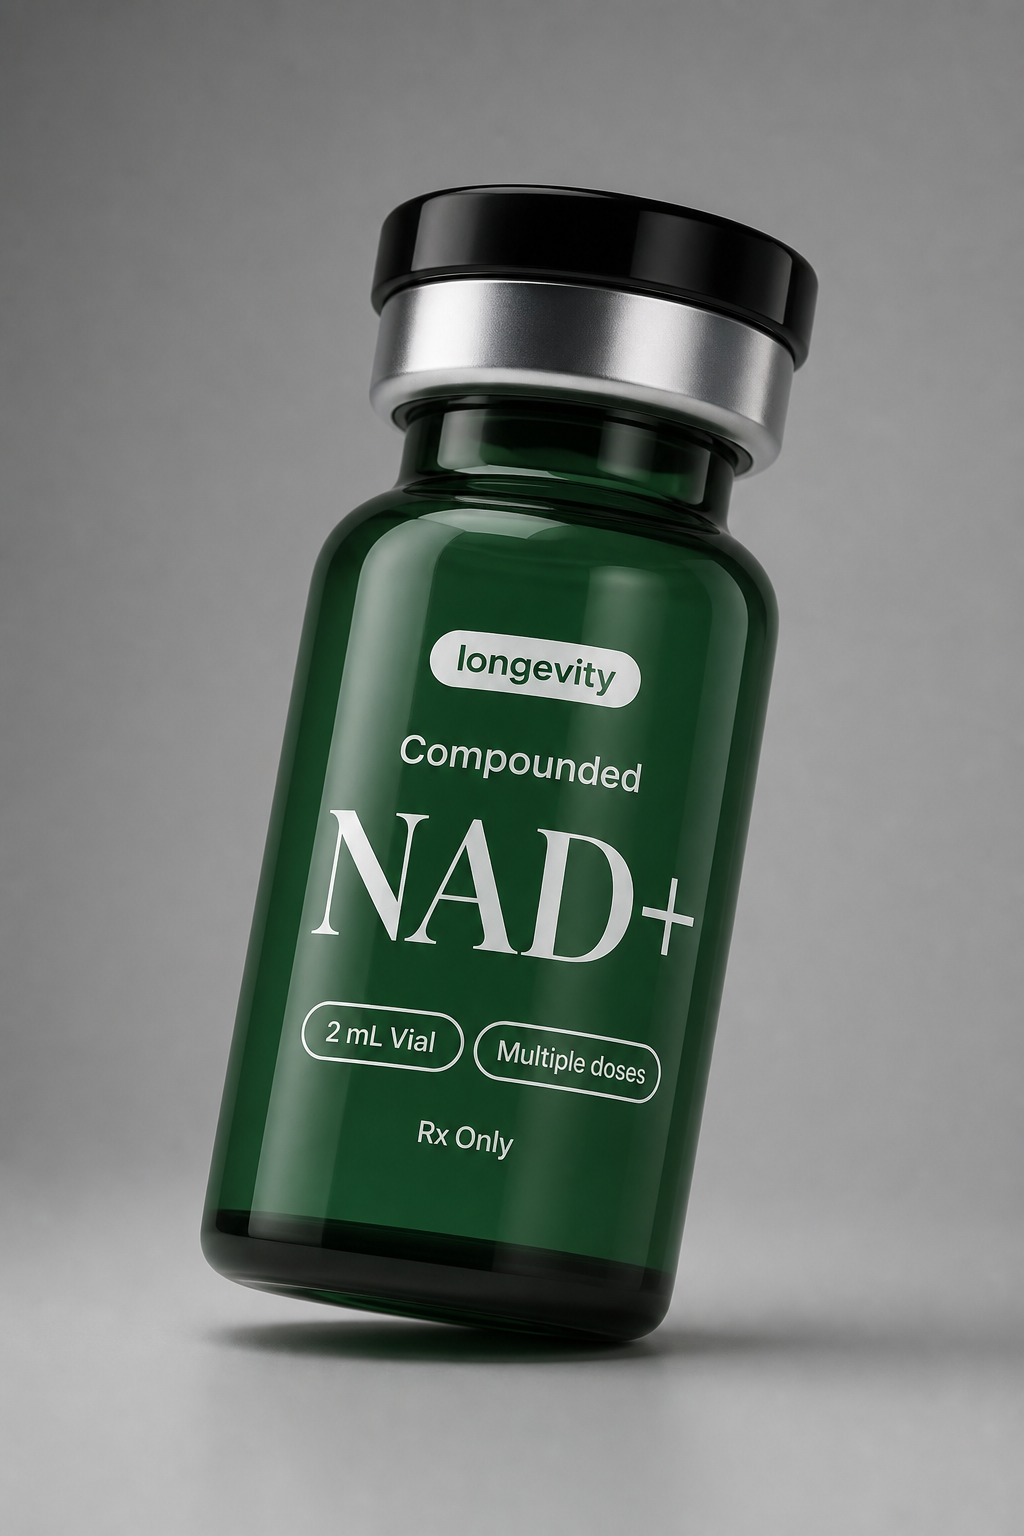
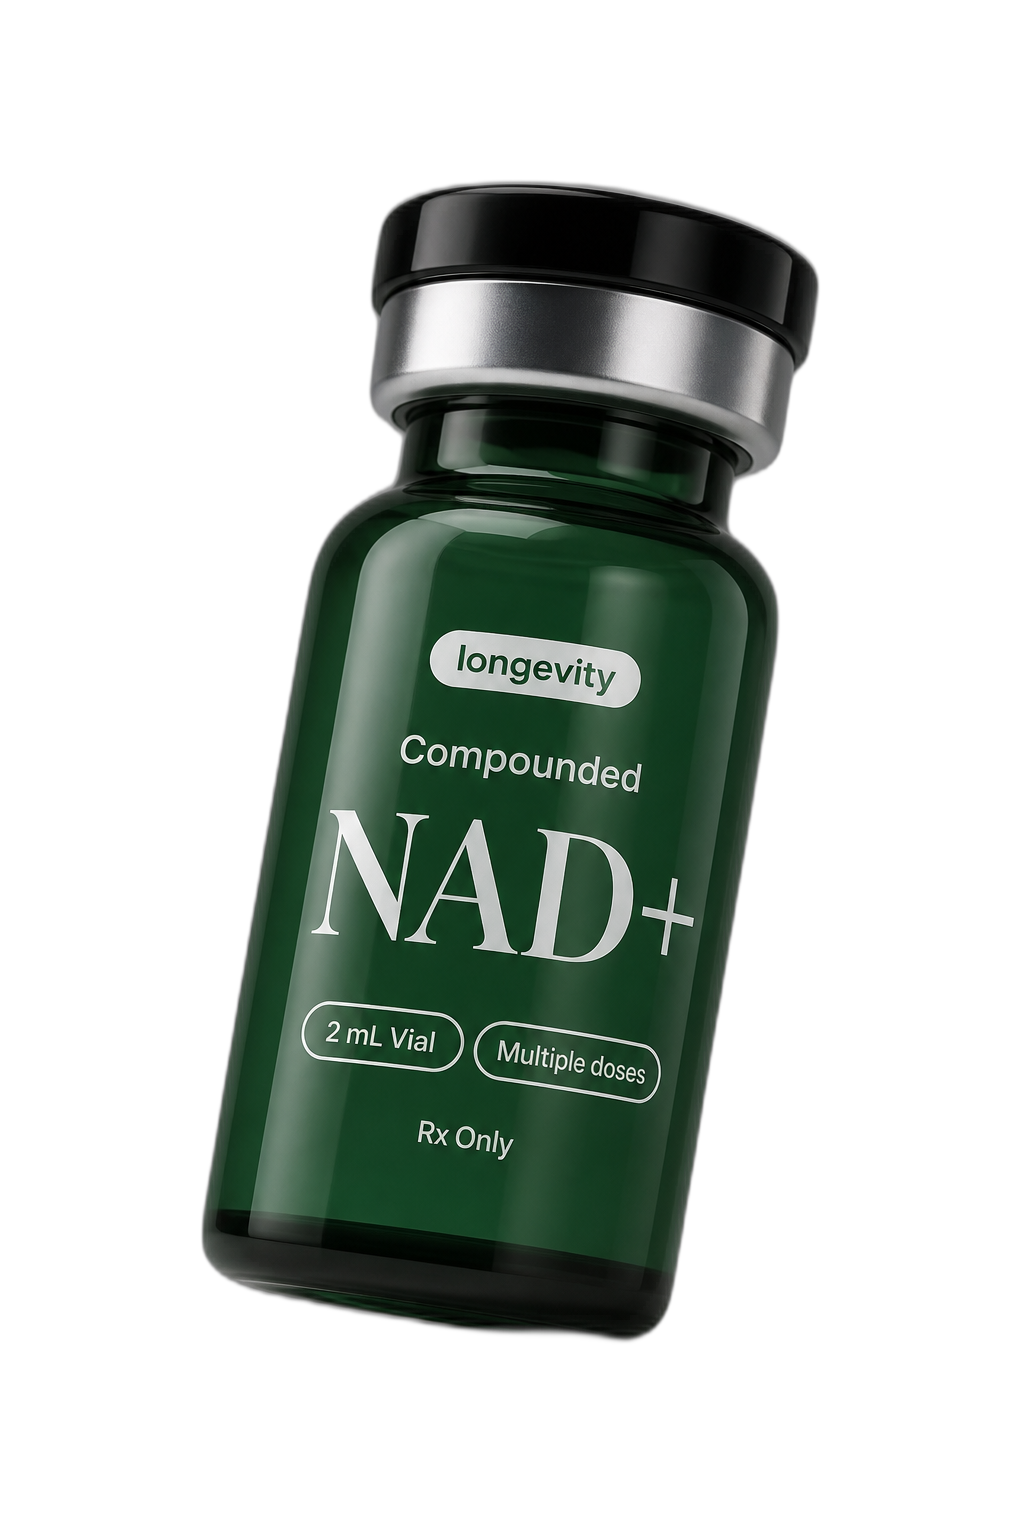
Remove vial image backgrounds (transparent PNGs) and switch CSS to object-fit:contain

diff --git a/longevity.html b/longevity.html
@@ -460,21 +460,21 @@
             <div class="peptide-carousel-container" style="position:relative; width:100%; height:260px; background:radial-gradient(circle at center, rgba(80,140,222,0.1) 0%, transparent 70%); border-radius:12px; margin-bottom:24px; overflow:hidden; touch-action:pan-y;">
                 <div class="peptide-slides" style="display:flex; width:300%; height:100%; transition: transform 0.4s cubic-bezier(0.4, 0, 0.2, 1);" id="pepSlider">
                     <div class="pep-slide" style="flex:1; display:flex; flex-direction:column; align-items:center; justify-content:center;">
-                        <img src="assets/brand/sermorelin_vial.png" style="height: 200px; width: 140px; object-fit:cover; object-position: center 55%; border-radius: 10px;" alt="Sermorelin">
+                        <img src="assets/brand/sermorelin_vial.png" style="height: 200px; width: 140px; object-fit: contain; border-radius: 10px;" alt="Sermorelin">
                         <div style="text-align:center; transform:translateY(12px);">
                             <div style="color:#fff; font-weight:700; font-size:18px;">Sermorelin</div>
                             <div style="color:rgba(255,255,255,0.6); font-size:13px; font-weight:500;">Growth factors &middot; Anti-aging</div>
                         </div>
                     </div>
                     <div class="pep-slide" style="flex:1; display:flex; flex-direction:column; align-items:center; justify-content:center;">
-                        <img src="assets/brand/glutathione_vial.png" style="height: 200px; width: 140px; object-fit:cover; object-position: center 55%; border-radius: 10px;" alt="Glutathione">
+                        <img src="assets/brand/glutathione_vial.png" style="height: 200px; width: 140px; object-fit: contain; border-radius: 10px;" alt="Glutathione">
                         <div style="text-align:center; transform:translateY(12px);">
                             <div style="color:#fff; font-weight:700; font-size:18px;">Glutathione</div>
                             <div style="color:rgba(255,255,255,0.6); font-size:13px; font-weight:500;">Detox &middot; Immunity</div>
                         </div>
                     </div>
                     <div class="pep-slide" style="flex:1; display:flex; flex-direction:column; align-items:center; justify-content:center;">
-                        <img src="assets/brand/nad_vial.png" style="height: 200px; width: 140px; object-fit:cover; object-position: center 55%; border-radius: 10px;" alt="NAD+">
+                        <img src="assets/brand/nad_vial.png" style="height: 200px; width: 140px; object-fit: contain; border-radius: 10px;" alt="NAD+">
                         <div style="text-align:center; transform:translateY(12px);">
                             <div style="color:#fff; font-weight:700; font-size:18px;">NAD+</div>
                             <div style="color:rgba(255,255,255,0.6); font-size:13px; font-weight:500;">Cellular energy &middot; DNA repair</div>

diff --git a/promo-longevity.html b/promo-longevity.html
@@ -344,21 +344,21 @@
         <div class="peptide-carousel-container" style="position:relative; width:100%; height:100%; overflow:hidden; touch-action:pan-y;">
             <div class="peptide-slides" style="display:flex; width:300%; height:100%; transition: transform 0.4s cubic-bezier(0.4, 0, 0.2, 1);" id="PromoPepSlider">
                 <div class="pep-slide" style="flex:1; display:flex; flex-direction:column; align-items:center; justify-content:center;">
-                    <img src="assets/brand/sermorelin_vial.png" style="height: 55%; width: 45%; object-fit:cover; object-position: center 55%; border-radius: 10px;" alt="Sermorelin">
+                    <img src="assets/brand/sermorelin_vial.png" style="height: 55%; width: 45%; object-fit: contain; border-radius: 10px;" alt="Sermorelin">
                     <div style="text-align:center; margin-top:24px;">
                         <div style="color:var(--charcoal); font-weight:700; font-size:22px;">Sermorelin</div>
                         <div style="color:var(--text-muted); font-size:14px; font-weight:500;">Growth factors &middot; Anti-aging</div>
                     </div>
                 </div>
                 <div class="pep-slide" style="flex:1; display:flex; flex-direction:column; align-items:center; justify-content:center;">
-                    <img src="assets/brand/glutathione_vial.png" style="height: 55%; width: 45%; object-fit:cover; object-position: center 55%; border-radius: 10px;" alt="Glutathione">
+                    <img src="assets/brand/glutathione_vial.png" style="height: 55%; width: 45%; object-fit: contain; border-radius: 10px;" alt="Glutathione">
                     <div style="text-align:center; margin-top:24px;">
                         <div style="color:var(--charcoal); font-weight:700; font-size:22px;">Glutathione</div>
                         <div style="color:var(--text-muted); font-size:14px; font-weight:500;">Detox &middot; Immunity</div>
                     </div>
                 </div>
                 <div class="pep-slide" style="flex:1; display:flex; flex-direction:column; align-items:center; justify-content:center;">
-                    <img src="assets/brand/nad_vial.png" style="height: 55%; width: 45%; object-fit:cover; object-position: center 55%; border-radius: 10px;" alt="NAD+">
+                    <img src="assets/brand/nad_vial.png" style="height: 55%; width: 45%; object-fit: contain; border-radius: 10px;" alt="NAD+">
                     <div style="text-align:center; margin-top:24px;">
                         <div style="color:var(--charcoal); font-weight:700; font-size:22px;">NAD+</div>
                         <div style="color:var(--text-muted); font-size:14px; font-weight:500;">Cellular energy &middot; DNA repair</div>

diff --git a/weight-loss.html b/weight-loss.html
@@ -787,8 +787,8 @@
             <div class="hpc-badge">✦ Most Popular</div>
             <div class="vial-carousel" id="wlCarousel">
               <div class="vial-carousel-track">
-                <img src="assets/brand/semag_transparent.png" alt="Semaglutide" class="vial-slide active" style="width:100%;height:100%;object-fit:cover;object-position:center 55%;">
-                <img src="assets/brand/tirzz_transparent.png" alt="Tirzepatide" class="vial-slide" style="width:100%;height:100%;object-fit:cover;object-position:center 55%;">
+                <img src="assets/brand/semag_transparent.png" alt="Semaglutide" class="vial-slide active" style="width:100%;height:100%;object-fit:contain;">
+                <img src="assets/brand/tirzz_transparent.png" alt="Tirzepatide" class="vial-slide" style="width:100%;height:100%;object-fit:contain;">
               </div>
               <button class="vial-arrow vial-arrow-left" onclick="switchVial('wlCarousel', -1)" aria-label="Previous">
                 <svg width="18" height="18" viewBox="0 0 18 18" fill="none"><path d="M11 4l-5 5 5 5" stroke="currentColor" stroke-width="1.5" stroke-linecap="round" stroke-linejoin="round"/></svg>
@@ -849,7 +849,7 @@
       <div class="meds-grid">
         <div class="med-card reveal reveal-delay-1">
           <img src="assets/brand/semag_transparent.png" alt="Semaglutide"
-            style="width: 100%; height: 280px; object-fit: cover; object-position: center 55%; margin-bottom: 24px; border-radius: 12px;">
+            style="width: 100%; height: 280px; object-fit: contain; margin-bottom: 24px; border-radius: 12px;">
           <h3>Semaglutide</h3>
           <div class="generic">Compounded GLP-1 receptor agonist</div>
           <div class="mechanism">A GLP-1 receptor agonist that reduces appetite, slows gastric emptying, and improves
@@ -872,7 +872,7 @@
         <div class="med-card featured reveal reveal-delay-2">
           <div class="med-card-tag">More Powerful</div>
           <img src="assets/brand/tirzz_transparent.png" alt="Tirzepatide"
-            style="width: 100%; height: 280px; object-fit: cover; object-position: center 55%; margin-bottom: 24px; border-radius: 12px;">
+            style="width: 100%; height: 280px; object-fit: contain; margin-bottom: 24px; border-radius: 12px;">
           <h3>Tirzepatide</h3>
           <div class="generic">Compounded dual GLP-1/GIP receptor agonist</div>
           <div class="mechanism">A dual GLP-1/GIP receptor agonist — the two-pronged mechanism delivers greater weight

diff --git a/quiz.html b/quiz.html
@@ -1667,7 +1667,7 @@
           <div class="plan-card" id="plan-wl">
             <div class="plan-recommended-tag">Best Match</div>
             <span class="plan-icon"><i class="ri-scales-3-fill"></i></span>
-            <img src="assets/brand/semag_transparent.png" alt="Semaglutide" style="position: absolute; bottom: 100px; right: 15px; height: 220px; width: 130px; object-fit: cover; object-position: center 55%; z-index: 1; border-radius: 10px;">
+            <img src="assets/brand/semag_transparent.png" alt="Semaglutide" style="position: absolute; bottom: 100px; right: 15px; height: 220px; width: 130px; object-fit: contain; z-index: 1; border-radius: 10px;">
             <div class="plan-name">GLP-1 Weight Loss</div>
             <div class="plan-desc">Semaglutide compounded with B12. Ideal for metabolic support and sustained weight loss.</div>
             <div class="plan-price">$194.29<span style="font-size:18px;color:var(--text-muted)">/mo</span></div>
@@ -1699,7 +1699,7 @@
           <div class="plan-card" id="plan-long">
             <div class="plan-recommended-tag">Best Match</div>
             <span class="plan-icon"><i class="ri-node-tree"></i></span>
-            <img src="assets/brand/sermorelin_vial.png" alt="Longevity Protocol" style="position: absolute; bottom: 85px; right: 15px; height: 190px; width: 115px; object-fit: cover; object-position: center 55%; border-radius: 10px; z-index: 1;">
+            <img src="assets/brand/sermorelin_vial.png" alt="Longevity Protocol" style="position: absolute; bottom: 85px; right: 15px; height: 190px; width: 115px; object-fit: contain; border-radius: 10px; z-index: 1;">
             <div class="plan-name">Longevity Stack</div>
             <div class="plan-desc">Sermorelin + NAD+. Targeted for energy, recovery, and anti-aging at the cellular level.</div>
             <div class="plan-price">$149<span style="font-size:18px;color:var(--text-muted)">/mo</span></div>

diff --git a/pricing.html b/pricing.html
@@ -678,7 +678,7 @@
       <div class="container">
         <div class="pricing-grid">
           <div class="pricing-card reveal reveal-delay-1">
-            <img src="assets/brand/semag_transparent.png" alt="GLP-1 Weight Loss" style="height: 220px; width: 100%; object-fit: cover; object-position: center 55%; margin-bottom: 24px; border-radius: 12px;">
+            <img src="assets/brand/semag_transparent.png" alt="GLP-1 Weight Loss" style="height: 220px; width: 100%; object-fit: contain; margin-bottom: 24px; border-radius: 12px;">
             <div class="pc-name">GLP-1 Weight Loss</div>
             <div class="pc-desc">Semaglutide or tirzepatide. All dosages included. No upcharge for higher doses.</div>
             <div class="pc-price"><sup>$</sup><span class="price-val" data-monthly="194.29" data-quarterly="149.29">194.29</span>
@@ -736,7 +736,7 @@
             <a href="quiz.html" class="pc-cta">Get Started →</a>
           </div>
           <div class="pricing-card reveal reveal-delay-4">
-            <img src="assets/brand/sermorelin_vial.png" alt="Longevity Stack" style="height: 220px; width: 100%; object-fit: cover; object-position: center 55%; margin-bottom: 24px; border-radius: 12px;">
+            <img src="assets/brand/sermorelin_vial.png" alt="Longevity Stack" style="height: 220px; width: 100%; object-fit: contain; margin-bottom: 24px; border-radius: 12px;">
             <div class="pc-name">Longevity Stack</div>
             <div class="pc-desc">Peptides, NAD+, and anti-aging protocols. Custom-designed by your physician.</div>
             <div class="pc-price"><sup>$</sup><span class="price-val" data-monthly="149" data-quarterly="127">149</span>

diff --git a/index.html b/index.html
@@ -483,8 +483,7 @@
     .treatment-card-visual.vial-photo img.product-photo {
       height: 100%;
       width: 100%;
-      object-fit: cover;
-      object-position: center 55%;
+      object-fit: contain;
       filter: none;
     }
 
@@ -1135,7 +1134,7 @@
       
       <!-- Mobile Hero Image -->
       <div class="hero-visual-mobile" style="border-radius: 20px; overflow: hidden; box-shadow: 0 20px 40px rgba(0,0,0,0.3);">
-        <img src="assets/brand/freeley-hero-lifestyle.png" alt="Confident woman living healthy with Freeley" style="width: 100%; height: auto; display: block; object-fit: cover; max-height: 400px;">
+        <img src="assets/brand/freeley-hero-lifestyle.png" alt="Confident woman living healthy with Freeley" style="width: 100%; height: auto; display: block;  max-height: 400px;">
       </div>
       <p class="hero-desc" style="margin-bottom: 24px;">Freeley pairs you with a licensed provider who treats the root cause &mdash; hormones, metabolism, and all &mdash; so the weight actually stays off.<br><br>Lose the weight. Ditch the guesswork. <em>Live Freeley.</em></p>
 
@@ -1193,7 +1192,7 @@
     </div>
     <div class="hero-visual">
       <!-- Hero Lifestyle Photo -->
-      <img src="assets/brand/freeley-hero-lifestyle.png" alt="Confident woman living healthy with Freeley" style="width: 100%; height: 100%; object-fit: cover; display: block;">
+      <img src="assets/brand/freeley-hero-lifestyle.png" alt="Confident woman living healthy with Freeley" style="width: 100%; height: 100%;  display: block;">
     </div>
   </section>
 

diff --git a/promo-weight-loss.html b/promo-weight-loss.html
@@ -351,7 +351,7 @@
       <!-- SEMAGLUTIDE CARD -->
       <div id="card-sema" style="display:block;">
         <div class="product-carousel">
-          <img src="assets/brand/semag_transparent.png" alt="Semaglutide" style="width:100%; height:100%; object-fit:cover; object-position:center 55%; border-radius:12px;">
+          <img src="assets/brand/semag_transparent.png" alt="Semaglutide" style="width:100%; height:100%; object-fit: contain; border-radius:12px;">
         </div>
         <div class="product-price">
           <span class="current-price">$99.29</span><span style="font-size:14px; color:var(--text-muted); margin-left:-8px;">/mo</span>
@@ -367,7 +367,7 @@
       <!-- TIRZEPATIDE CARD -->
       <div id="card-tirz" style="display:none;">
         <div class="product-carousel">
-          <img src="assets/brand/tirzz_transparent.png" alt="Tirzepatide" style="width:100%; height:100%; object-fit:cover; object-position:center 55%; border-radius:12px;">
+          <img src="assets/brand/tirzz_transparent.png" alt="Tirzepatide" style="width:100%; height:100%; object-fit: contain; border-radius:12px;">
         </div>
         <div class="product-price">
           <span class="current-price">$194.29</span><span style="font-size:14px; color:var(--text-muted); margin-left:-8px;">/mo</span>

diff --git a/checkout.html b/checkout.html
@@ -736,7 +736,7 @@
         <!-- Treatment Line Item -->
         <div class="line-item">
           <div class="line-item-left">
-            <img src="assets/brand/semag_transparent.png" id="checkout-img" class="product-img" alt="Medication" style="object-fit:cover; object-position:center 55%; border-radius:8px;">
+            <img src="assets/brand/semag_transparent.png" id="checkout-img" class="product-img" alt="Medication" style="object-fit: contain; border-radius:8px;">
             <div>
               <div class="item-name" id="summary-treatment-name">Semaglutide</div>
               <div class="item-desc" id="summary-treatment-desc">Compounded w/ B12 (Cyanocobalamin)</div>

diff --git a/hub.html b/hub.html
@@ -644,7 +644,7 @@
                 <span class="sub-status">Active</span>
               </div>
               <div class="sub-info" style="margin-bottom: 24px;">
-                <img src="assets/brand/tirzz_transparent.png" alt="Tirzepatide" class="sub-img" style="object-fit:cover; object-position:center 55%; border-radius:8px;">
+                <img src="assets/brand/tirzz_transparent.png" alt="Tirzepatide" class="sub-img" style="object-fit: contain; border-radius:8px;">
                 <div>
                   <div class="sub-name">Tirzepatide + B6 Compound</div>
                   <div class="sub-desc">10mg weekly injection. 3-month supply.</div>
